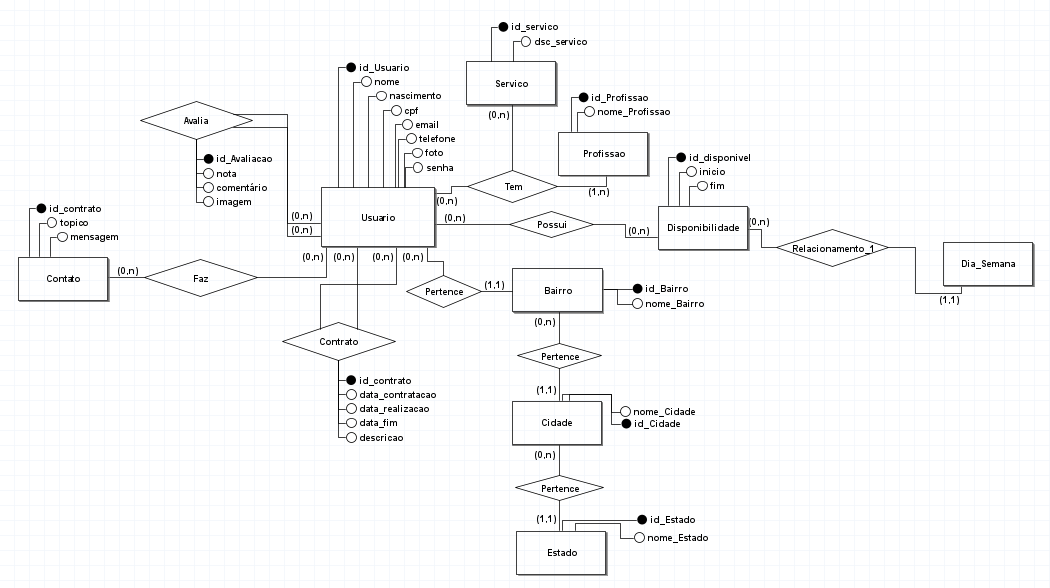
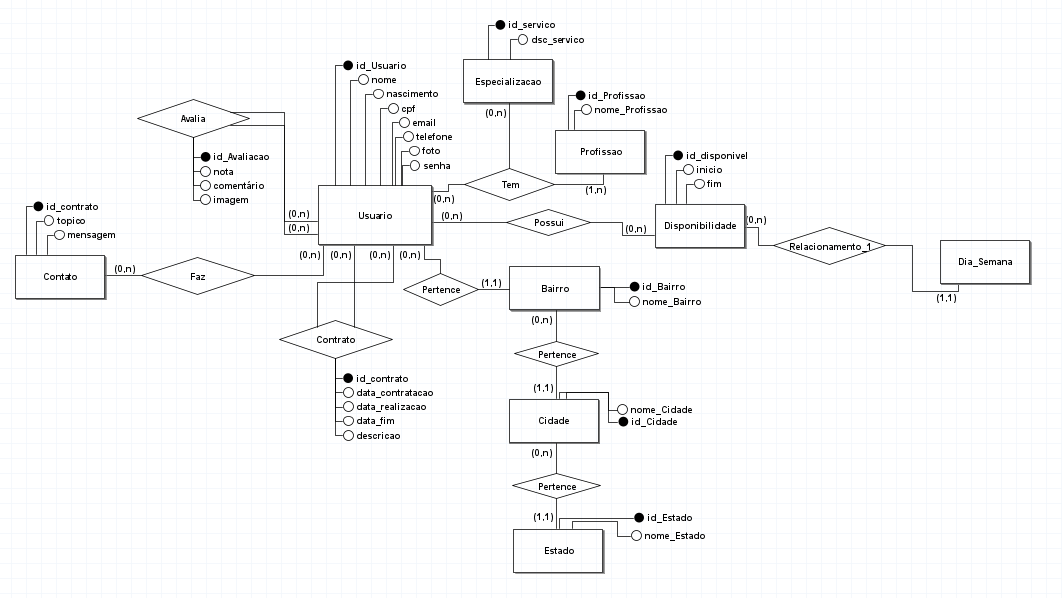
Add files via upload

Changed region(s): [[0.0, 0.0306, 0.8533, 0.9796], [0.2438, 0.5204, 0.4267, 0.7653], [0.8533, 0.398, 1.0, 0.5204]]

diff --git a/README.md b/README.md
@@ -93,9 +93,23 @@ Link para acesso: https://www.figma.com/file/1vqdnEQkiOlLbIIEcZ05ip/Aplica%C3%A7
     CLIENTE: Tabela que armazena as informações relativas ao cliente<br>
     CPF: campo que armazena o número de Cadastro de Pessoa Física para cada cliente da empresa.<br>
 -->
-    USUÁRIO: Tabela que armazena as informações dos usuários cadastrados <br>
-        NOME: Nome do usuário que foi cadastrado <br>
-        Nascimento: Data de nascimento do usuário <br>
+    **USUÁRIO**: Tabela que armazena as informações dos usuários cadastrados <br>
+        **NOME**: Atributo que armazena o nome real do usuário que foi cadastrado <br>
+        **NASCIMENTO**: Atributo que armazena data de nascimento do usuário <br>
+        **CPF**: Atributo que armazena o número de Cadastro de Pessoa Física (CPF) dos usuários <br>
+        **EMAIL**: Atributo que armazena o endereço email do usuário <br>
+        **TELEFONE**: Atributo que armazena o telefone do usuário <br>
+        **FOTO**: Atributo que armazena a URL da foto de perfil que o usuário escolher <br>
+        **SENHA**: Atributo que armazena a senha que o usuário escolher <br>
+    **PROFISSÃO**: Tabela que armazena as informações sobre as profissões cadastradas no sistema <br>
+        **NOME_PROFISSÃO**: Atributo que armazena o nome da profissão cadastrada <br>
+    **ESPECIALIZAÇÃO**: Tabela referente às informações sobre a especialização de uma profissão <br>
+        **DSC_ESPEC**: Atributo que armazena o nome da especialização da profissão cadastrada <br>
+    **DISPONIBILIDADE**: Tabela referente à disponibilidade daquele usuário <br>
+        **INICIO**: Atributo que armazena a data inicial do período de disponibilidade <br>
+        **FIM**: Atributo que armazena a data final do período de disponibilidade <br>
+
+
         
 
 <!-- 
